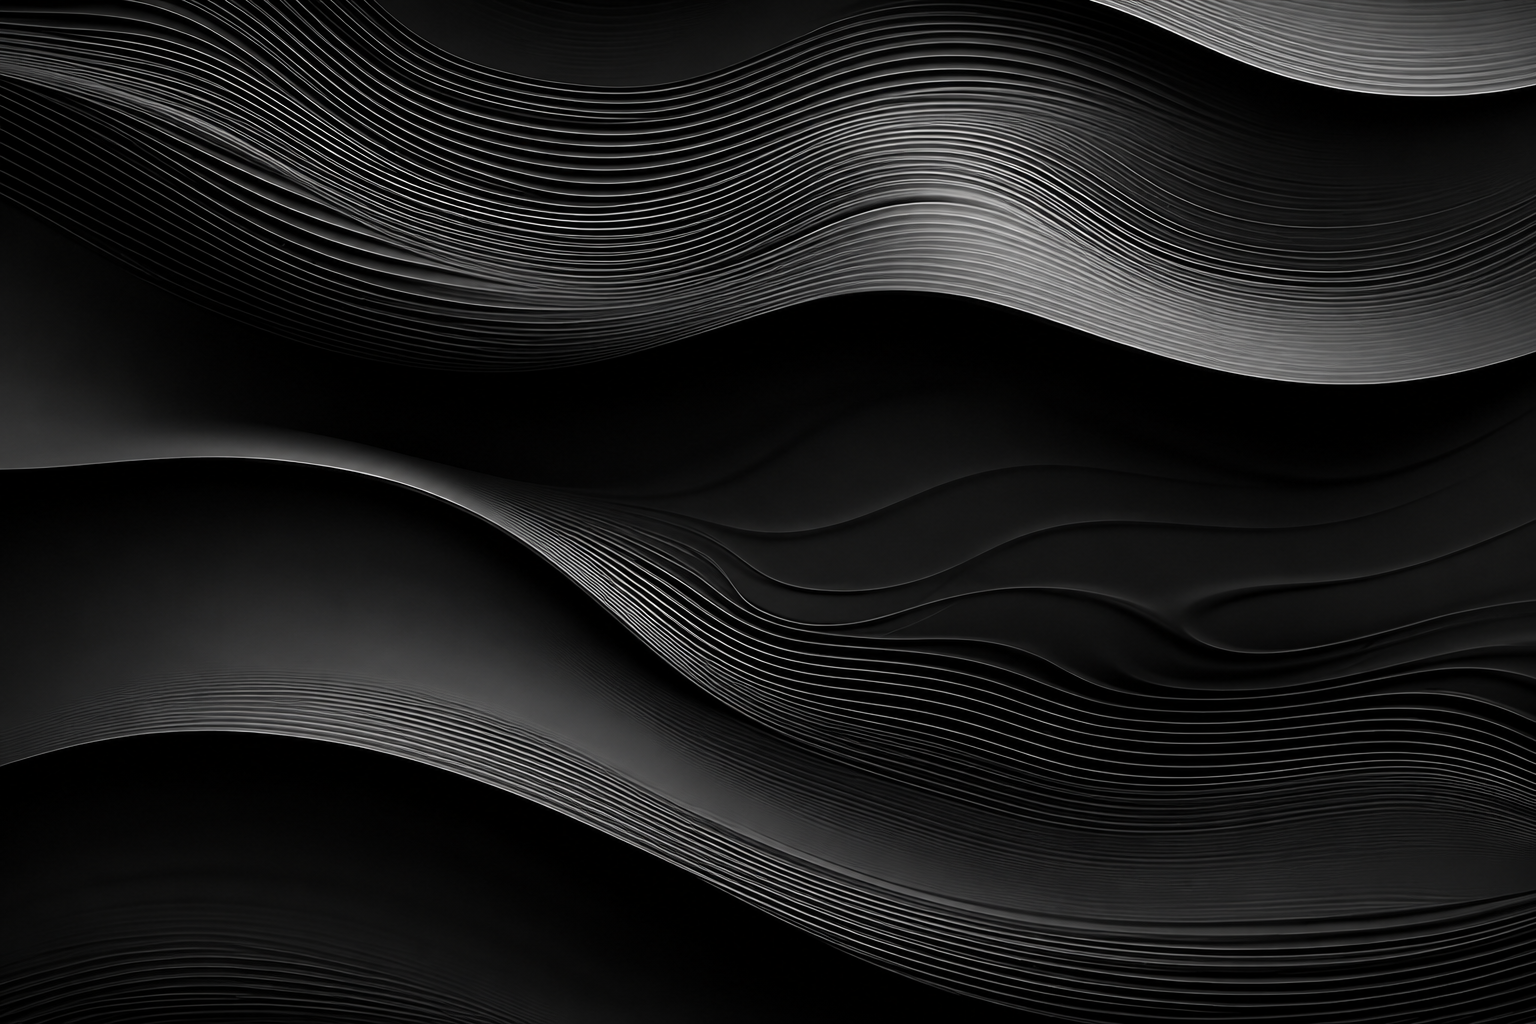
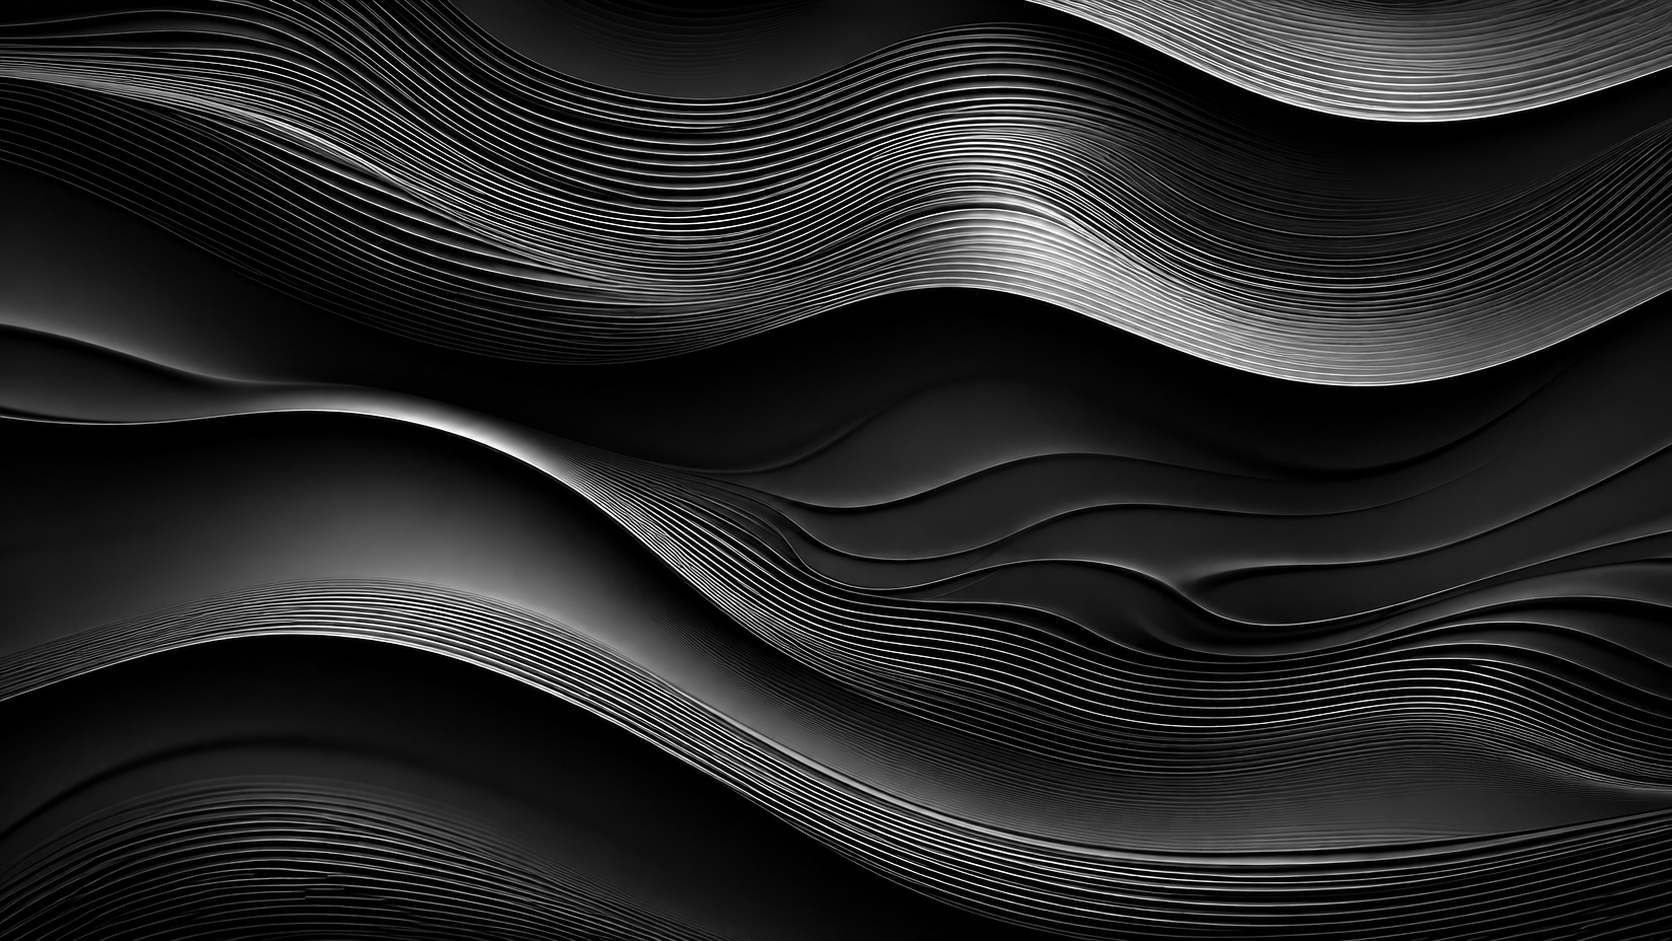
fix(appearance): fill canvas with widescreen wave wallpaper

diff --git a/still-desktop/src/styles.css b/still-desktop/src/styles.css
@@ -82,7 +82,7 @@ dialog{width:min(440px,calc(100vw - 32px));border:1px solid var(--border);border
 .liquid-chrome-backdrop{position:fixed;z-index:-1;inset:0;overflow:hidden;pointer-events:none;background:linear-gradient(135deg,#29312f,#737a7d 48%,#252a2d)}
 .liquid-chrome-backdrop::after{content:"";position:absolute;inset:0;pointer-events:none;background:linear-gradient(135deg,rgb(14 20 24 / .14),rgb(12 18 22 / .025) 50%,rgb(8 12 16 / .2))}
 .liquid-glass.dark .liquid-chrome-backdrop::after{background:linear-gradient(135deg,rgb(7 11 15 / .24),rgb(7 10 14 / .11) 50%,rgb(5 8 12 / .32))}
-.wave-wallpaper-backdrop{background-color:#08090b;background-image:url('./assets/wave-metal-wallpaper.png');background-position:center;background-size:contain;background-repeat:no-repeat}
+.wave-wallpaper-backdrop{background-color:#08090b;background-image:url('./assets/wave-metal-wallpaper.png');background-position:center;background-size:cover;background-repeat:no-repeat}
 .wave-wallpaper-backdrop::after{display:none}
 .liquid-glass.dark{--surface:rgb(25 37 30 / var(--glass-alpha,.68));--text:#eef5ef;--muted:#b9cbbb;--border:rgb(230 245 232 / .18);--accent:#9cbaff;--tint:rgb(235 255 238 / .09);--glass-rim:rgb(237 255 241 / .25);--glass-highlight:rgb(226 255 234 / .055);--glass-shadow:rgb(0 12 4 / .3);color-scheme:dark}
 .liquid-glass.dots .content{background-image:none}

diff --git a/docs/agent-reports/2026-10-27-wave-wallpaper-fit.md b/docs/agent-reports/2026-10-27-wave-wallpaper-fit.md
@@ -1,0 +1,21 @@
+# Task: wave wallpaper fit
+
+- Agent: Codex GPT-6
+- Time: 2026-10-27 21:13 Pacific/Auckland (UTC+13)
+
+## Done
+- Reworked the wave wallpaper into an edge-to-edge widescreen composition and replaced the in-app image.
+- Changed the backdrop from `contain` to `cover`, removing the side letterboxing. The updated wallpaper keeps a similar 16:9 ratio, so only a negligible edge amount is cropped on common desktop displays.
+- The generated file is 1672×941 and contains refined metallic ridge detail; the image tool did not produce a native 4K bitmap despite the 4K request.
+
+## Files
+- `still-desktop/src/assets/wave-metal-wallpaper.png`
+- `still-desktop/src/styles.css`
+
+## Checks
+- `pnpm build` — passed; Vite emitted the existing large-chunk advisory.
+- `git diff --check` — passed.
+- Confirmed the Still Vite development server is listening, so the changed image and CSS are available to the running preview.
+
+## Handoff
+- Select **Wave metal · still image** to see the edge-to-edge version. The image is widescreen, not native 4K; the app now fills the screen without black side gaps.
